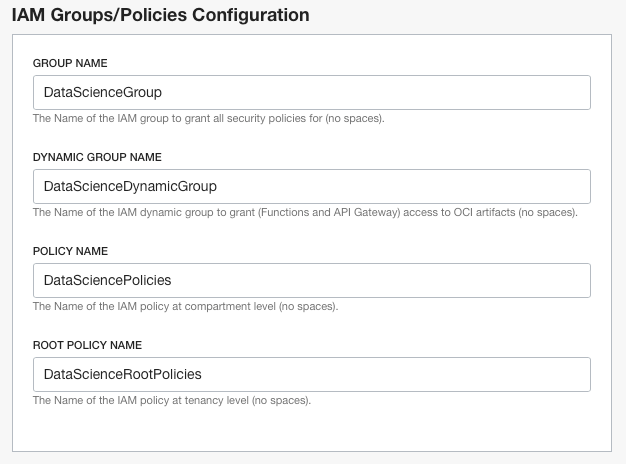
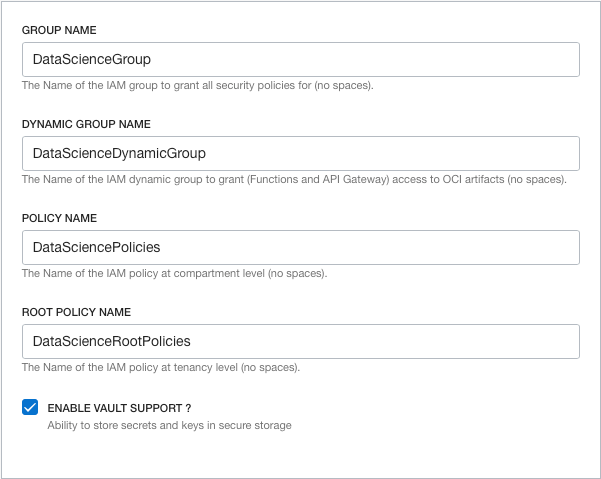
add support for provisioning OCI Vault required policies

Changed region(s): [[0.0, 0.0, 1.0, 1.0]]

diff --git a/README.md b/README.md
@@ -10,8 +10,8 @@ Below is a list of all artifacts that will be provisioned:
 |--------------|-------------------------------------|-------------------------|----------|--------------------|-----------------------------|-----------|
 | [ODS Project](https://docs.cloud.oracle.com/en-us/iaas/data-science/using/manage-projects.htm)  | Oracle OCI Data Science Project     | Data Science Project    | True     | True               | 1                           | -
 | [ODS Notebook](https://docs.cloud.oracle.com/en-us/iaas/data-science/using/manage-notebook-sessions.htm) | Oracle OCI Data Science Notebook(s) | Data Science Notebook-x | True     | True               | 1  or more                  | You can provision more than one notebook, and each notebook will be prefixed with an index (x) starting from (0) 
-| [Functions](https://docs.cloud.oracle.com/en-us/iaas/Content/Functions/Concepts/functionsconcepts.htm)    | Oracle OCI Function Application     | DataScienceApp          | True     | False              | 1                           | Only OCI **Functions Application** will be provisioned without a **Function deployment**. This is a placeholder application so you can deploy your model application later on.
-| [API Gateway](https://docs.cloud.oracle.com/en-us/iaas/Content/APIGateway/Concepts/apigatewayconcepts.htm)  | Oracle OCI API Gateway              | Data Science Gateway    | True     | False              | 1                           | Only OCI **API Gateway** will be provisioned without an **API Gateway deployment**. The gateway is used to expose the OCI Function through a REST interface.
+| [Functions](https://docs.cloud.oracle.com/en-us/iaas/Content/Functions/Concepts/functionsconcepts.htm)    | Oracle OCI Function Application     | DataScienceApp          | True     | True              | 1                           | Only OCI **Functions Application** will be provisioned without a **Function deployment**. This is a placeholder application so you can deploy your model application later on.
+| [API Gateway](https://docs.cloud.oracle.com/en-us/iaas/Content/APIGateway/Concepts/apigatewayconcepts.htm)  | Oracle OCI API Gateway              | Data Science Gateway    | True     | True              | 1                           | Only OCI **API Gateway** will be provisioned without an **API Gateway deployment**. The gateway is used to expose the OCI Function through a REST interface.
 | [VCN](https://docs.cloud.oracle.com/en-us/iaas/Content/Network/Tasks/managingVCNs.htm#VCNsandSubnets)          | Oracle OCI VCN                      | Data Science VCN        | True     | True               | 1                           | OCI VCN and all its related artifacts (Subnets, Security Lists, Routing Tables, Internet Gateway, Nat Gateway).
 | [Subnets](https://docs.cloud.oracle.com/en-us/iaas/Content/Network/Tasks/managingVCNs.htm#VCNsandSubnets)      | Oracle OCI VCN Subnets              | Data Science - Public/Private | True | True             | 2                           | One **Public Subnet** with its Security List and Routing Table and configured with an Internet Gateway (Hosts API Gateway). One **Private Subnet** and its Security List and Routing Table and configured with a NAT Gateway and hosts (ODS Project, ODS Notebooks, Function)
 | [Group](https://docs.cloud.oracle.com/en-us/iaas/Content/Identity/Tasks/managinggroups.htm)        | Oracle OCI Users Group              | DataScienceGroup        | False    | True               | 1                           | All Policies are granted to this group, you can add users to this group to grant me access to ODS services.
@@ -155,7 +155,7 @@ Below is a list of all artifacts that will be provisioned:
            #*************************************
            
            // Provision Functions Application and its associated API Gateway
-           enable_functions_apigateway=false
+           enable_functions_apigateway=true
            // Name of the "Functions Application", no spaces are allowed
            functions_app_name="DataScienceApp"
            // Name of the "API Gateway"
@@ -175,6 +175,8 @@ Below is a list of all artifacts that will be provisioned:
            ods_policy_name= "DataSciencePolicies"
            // ODS IAM Root Policy Name (no spaces)
            ods_root_policy_name= "DataScienceRootPolicies"
+           // If enabled, the needed OCI policies to manage "OCI Vault service" will be created 
+           enable_vault_policies= true
         ```
 1. Open file **oci-ods-orm/terraform/provider.tf** and uncomment the (user_id , fingerprint, private_key_path) in the **_two_** providers (**Default Provider** and **Home Provider**)
     ```
@@ -182,7 +184,7 @@ Below is a list of all artifacts that will be provisioned:
         provider "oci" {
           region = var.region
           tenancy_ocid = var.tenancy_ocid
-          ###### Uncomment the below if running locally using terraform and as OCI Resource Manager stack #####
+          ###### Uncomment the below if running locally using terraform and not as OCI Resource Manager stack #####
         //  user_ocid = var.user_ocid
         //  fingerprint = var.fingerprint
         //  private_key_path = var.private_key_path
@@ -196,7 +198,7 @@ Below is a list of all artifacts that will be provisioned:
           alias            = "home"
           region           = lookup(data.oci_identity_regions.home-region.regions[0], "name")
           tenancy_ocid = var.tenancy_ocid
-          ###### Uncomment the below if running locally using terraform and as OCI Resource Manager stack #####
+          ###### Uncomment the below if running locally using terraform and not as OCI Resource Manager stack #####
         //  user_ocid = var.user_ocid
         //  fingerprint = var.fingerprint
         //  private_key_path = var.private_key_path
